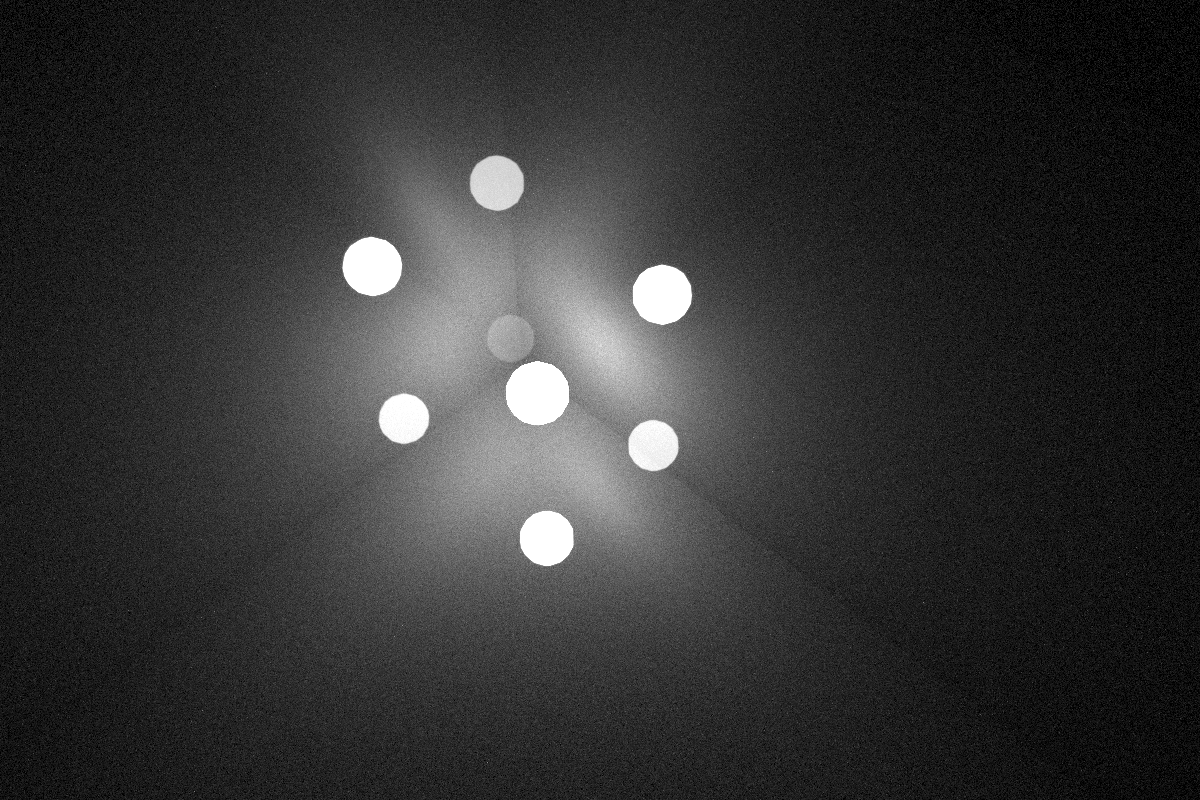
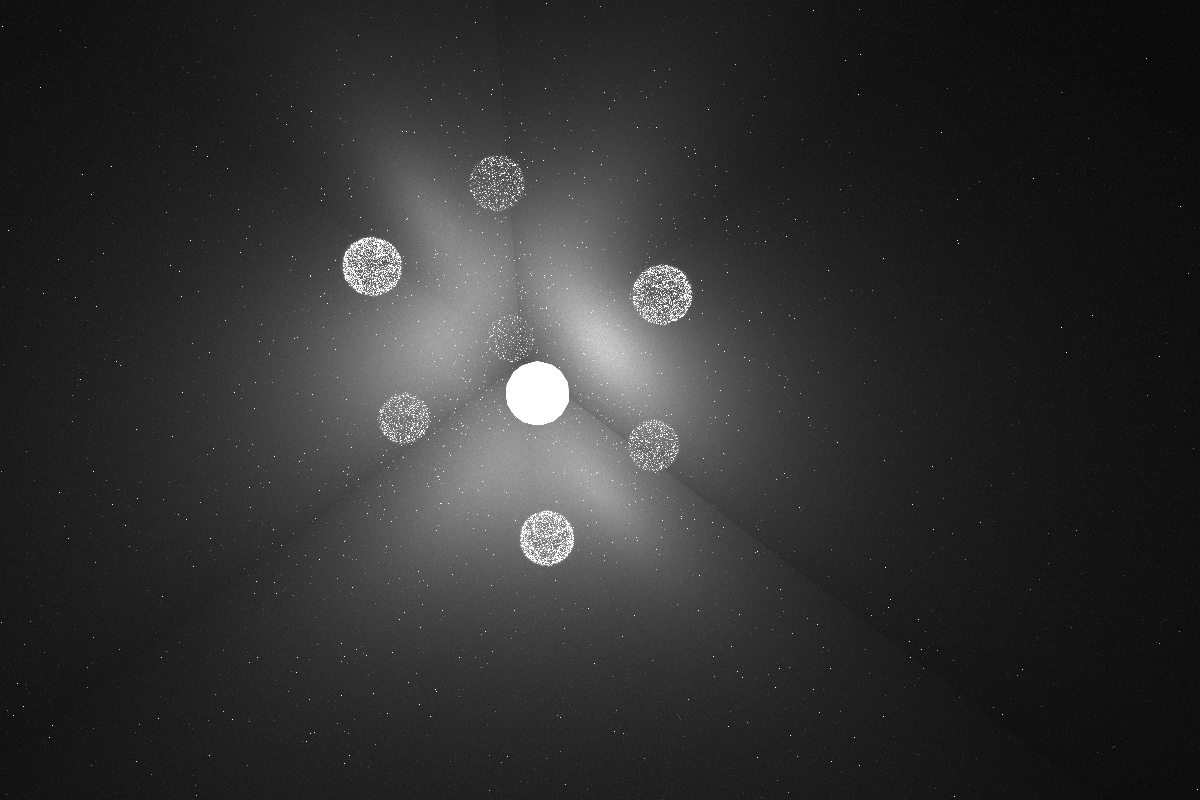
初步调整结果

diff --git a/raytrace_work/main.cpp b/raytrace_work/main.cpp
@@ -215,7 +215,7 @@ namespace osc {
         std::vector<LightParams> All_Lights;
 
         Model* model = loadOBJ(
-            "../../models/threemirror.obj", All_Lights
+            "../../models/fourmirror.obj", All_Lights
         );
         Camera camera = { /*from*/vec3f(7.55735,11.741,-6.49642),
             /* at */vec3f(-163.544,-301.196,172.938),
